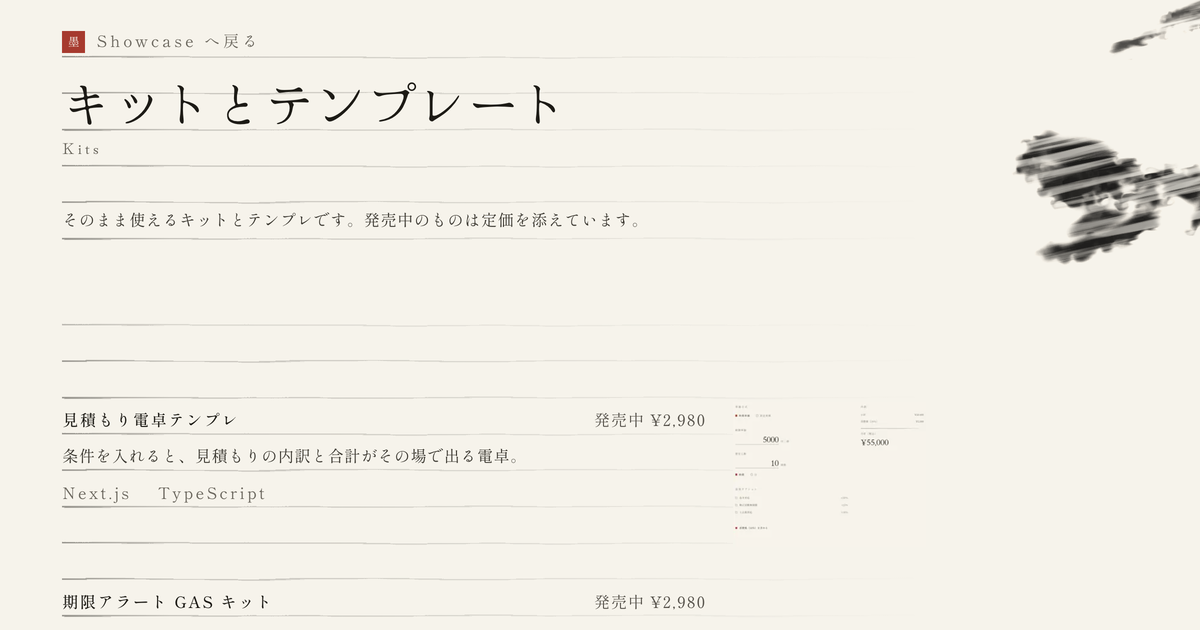
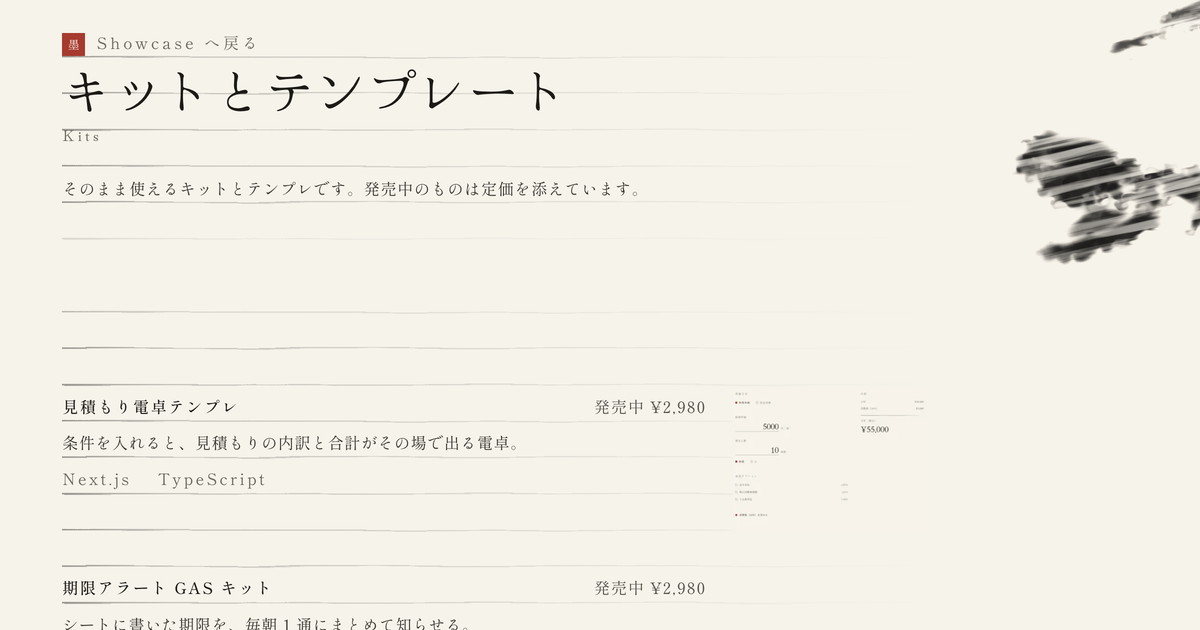
分類のページの頭を罫の格子に戻す（英字に罫が掛かっていた）
頭の四行（戻り・題・英字・一行）のあいだに半端な隙間（罫 0.5 本）を
挟んでいたため、行の箱が罫の格子から外れ、390px の紙で罫が英字の
真ん中を横切って取り消し線に見えた。隙間を無くし、戻りの行の高さも
罫ちょうど一本に揃えて、四行とも罫の上に座るようにした。
共有カードの 4 枚も焼き直した。

diff --git a/src/app/ryoushi.module.css b/src/app/ryoushi.module.css
@@ -1428,8 +1428,12 @@
   position: relative;
   z-index: 1;
   display: grid;
-  gap: calc(0.5 * var(--hi-kei-pitch));
-  padding-bottom: calc(0.5 * var(--hi-kei-pitch));
+  /* 隙間を持たない。四つの行（戻り・題・英字・一行）はどれも高さが罫の整数倍で、
+     頭の上端からそのまま積むので、全部が罫の上に座る。
+     ＊ 半端な隙間（0.5 行）を挟んでいたときは、行の箱が罫の格子から外れ、
+     390px の紙で罫が英字の真ん中を横切って【取り消し線】に見えた */
+  gap: 0;
+  padding-bottom: var(--hi-kei-pitch);
 }
 
 /* 頭の版面にだけ引く界線。下へは張り出さない（張り出すと段の版面と重なり、
@@ -1457,7 +1461,8 @@
   gap: 0.75em;
   justify-self: start;
   font-size: var(--hi-tiny);
-  line-height: 2;
+  /* 罫ちょうど一本。ここだけ 2 にすると、以降の行が全部そのぶん罫からずれる */
+  line-height: 2.3;
   letter-spacing: 0.2em;
   color: var(--hi-sumi-4);
   text-decoration: none;
